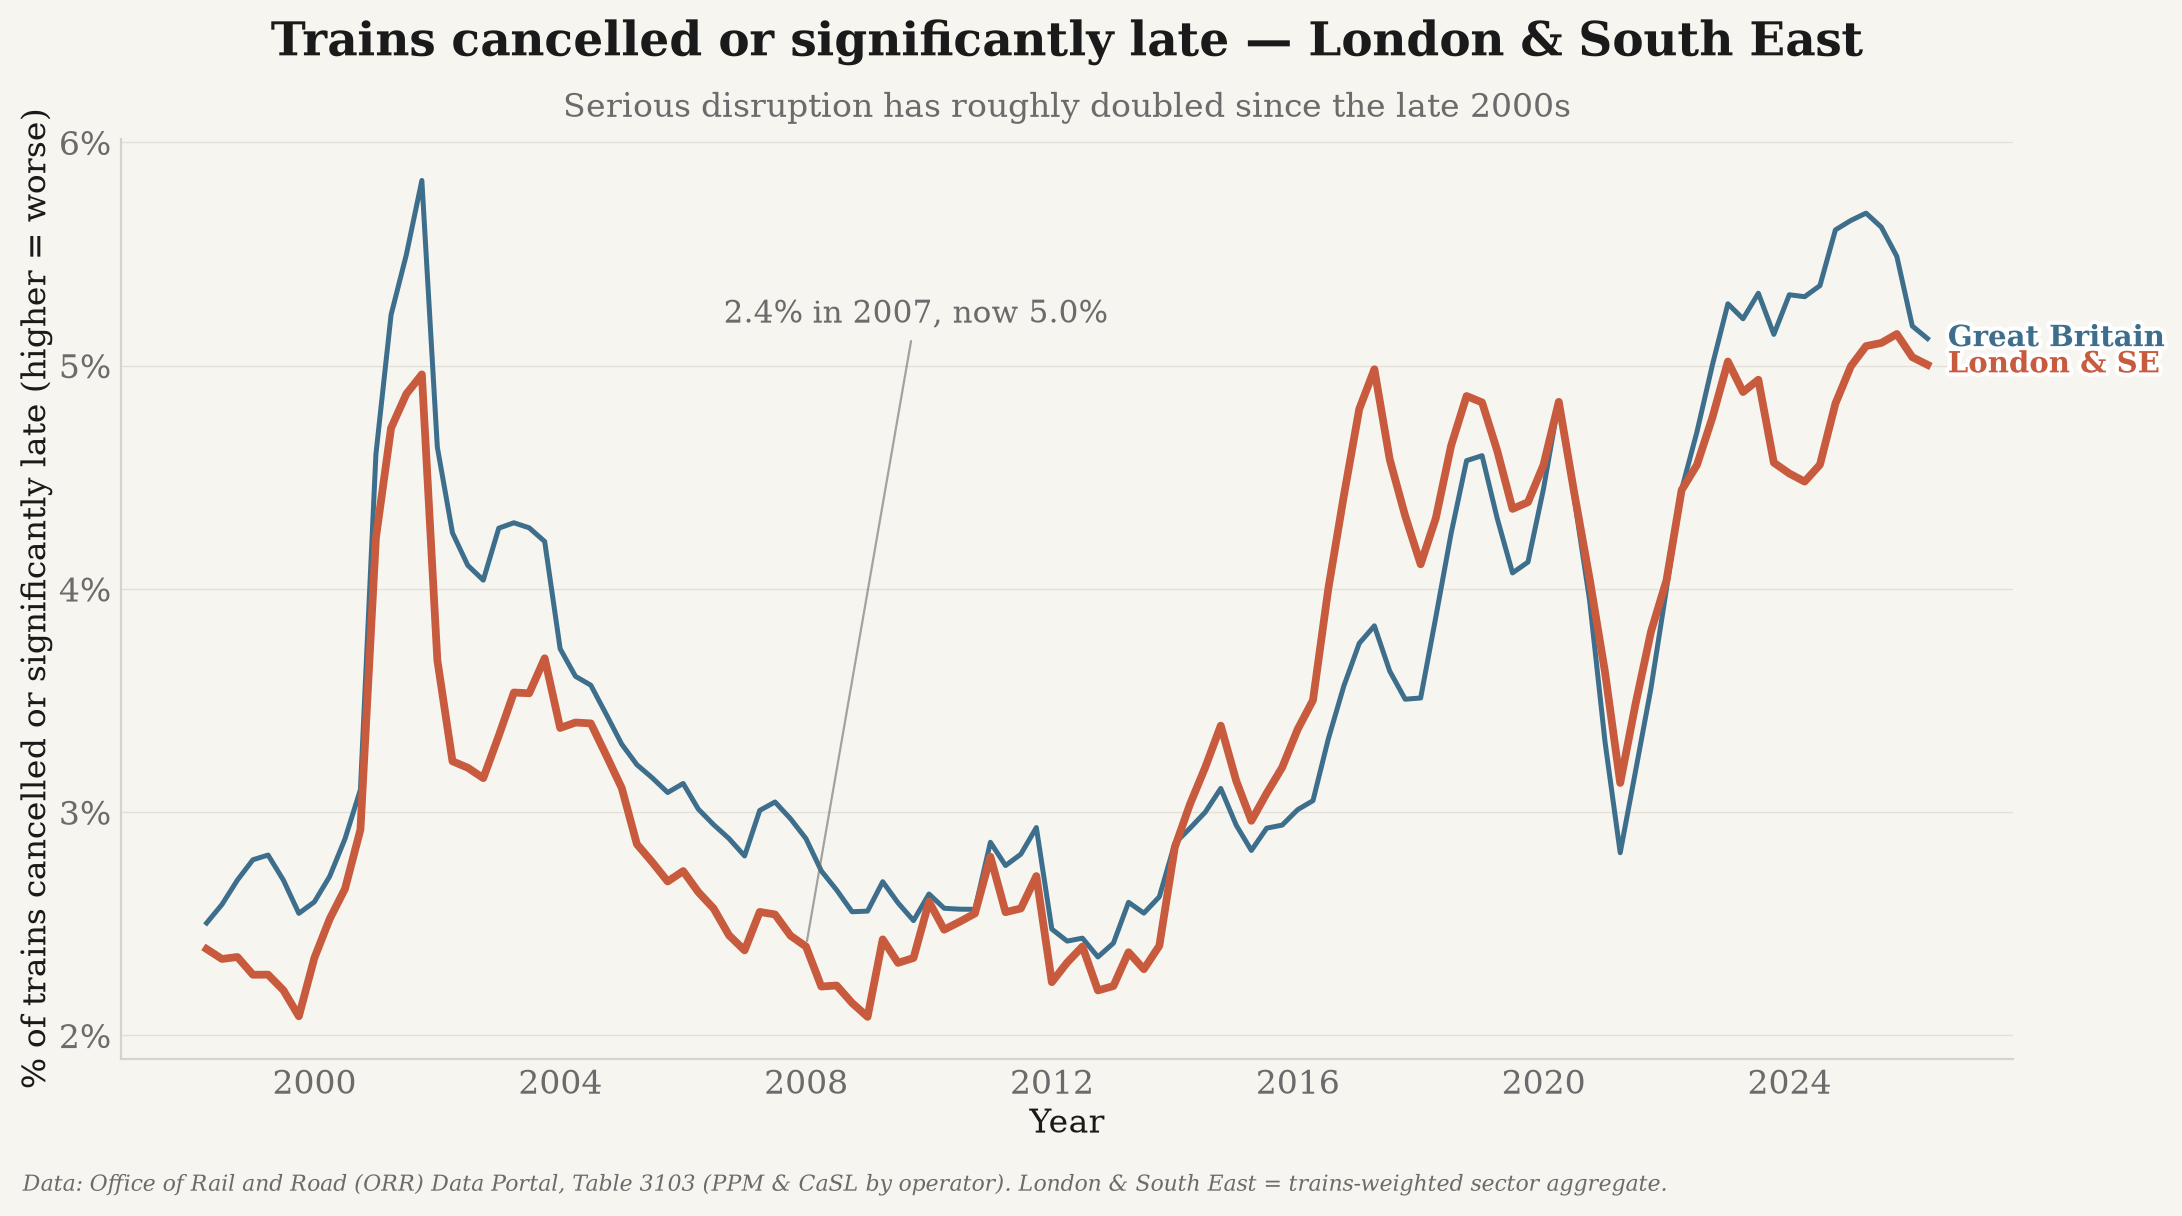
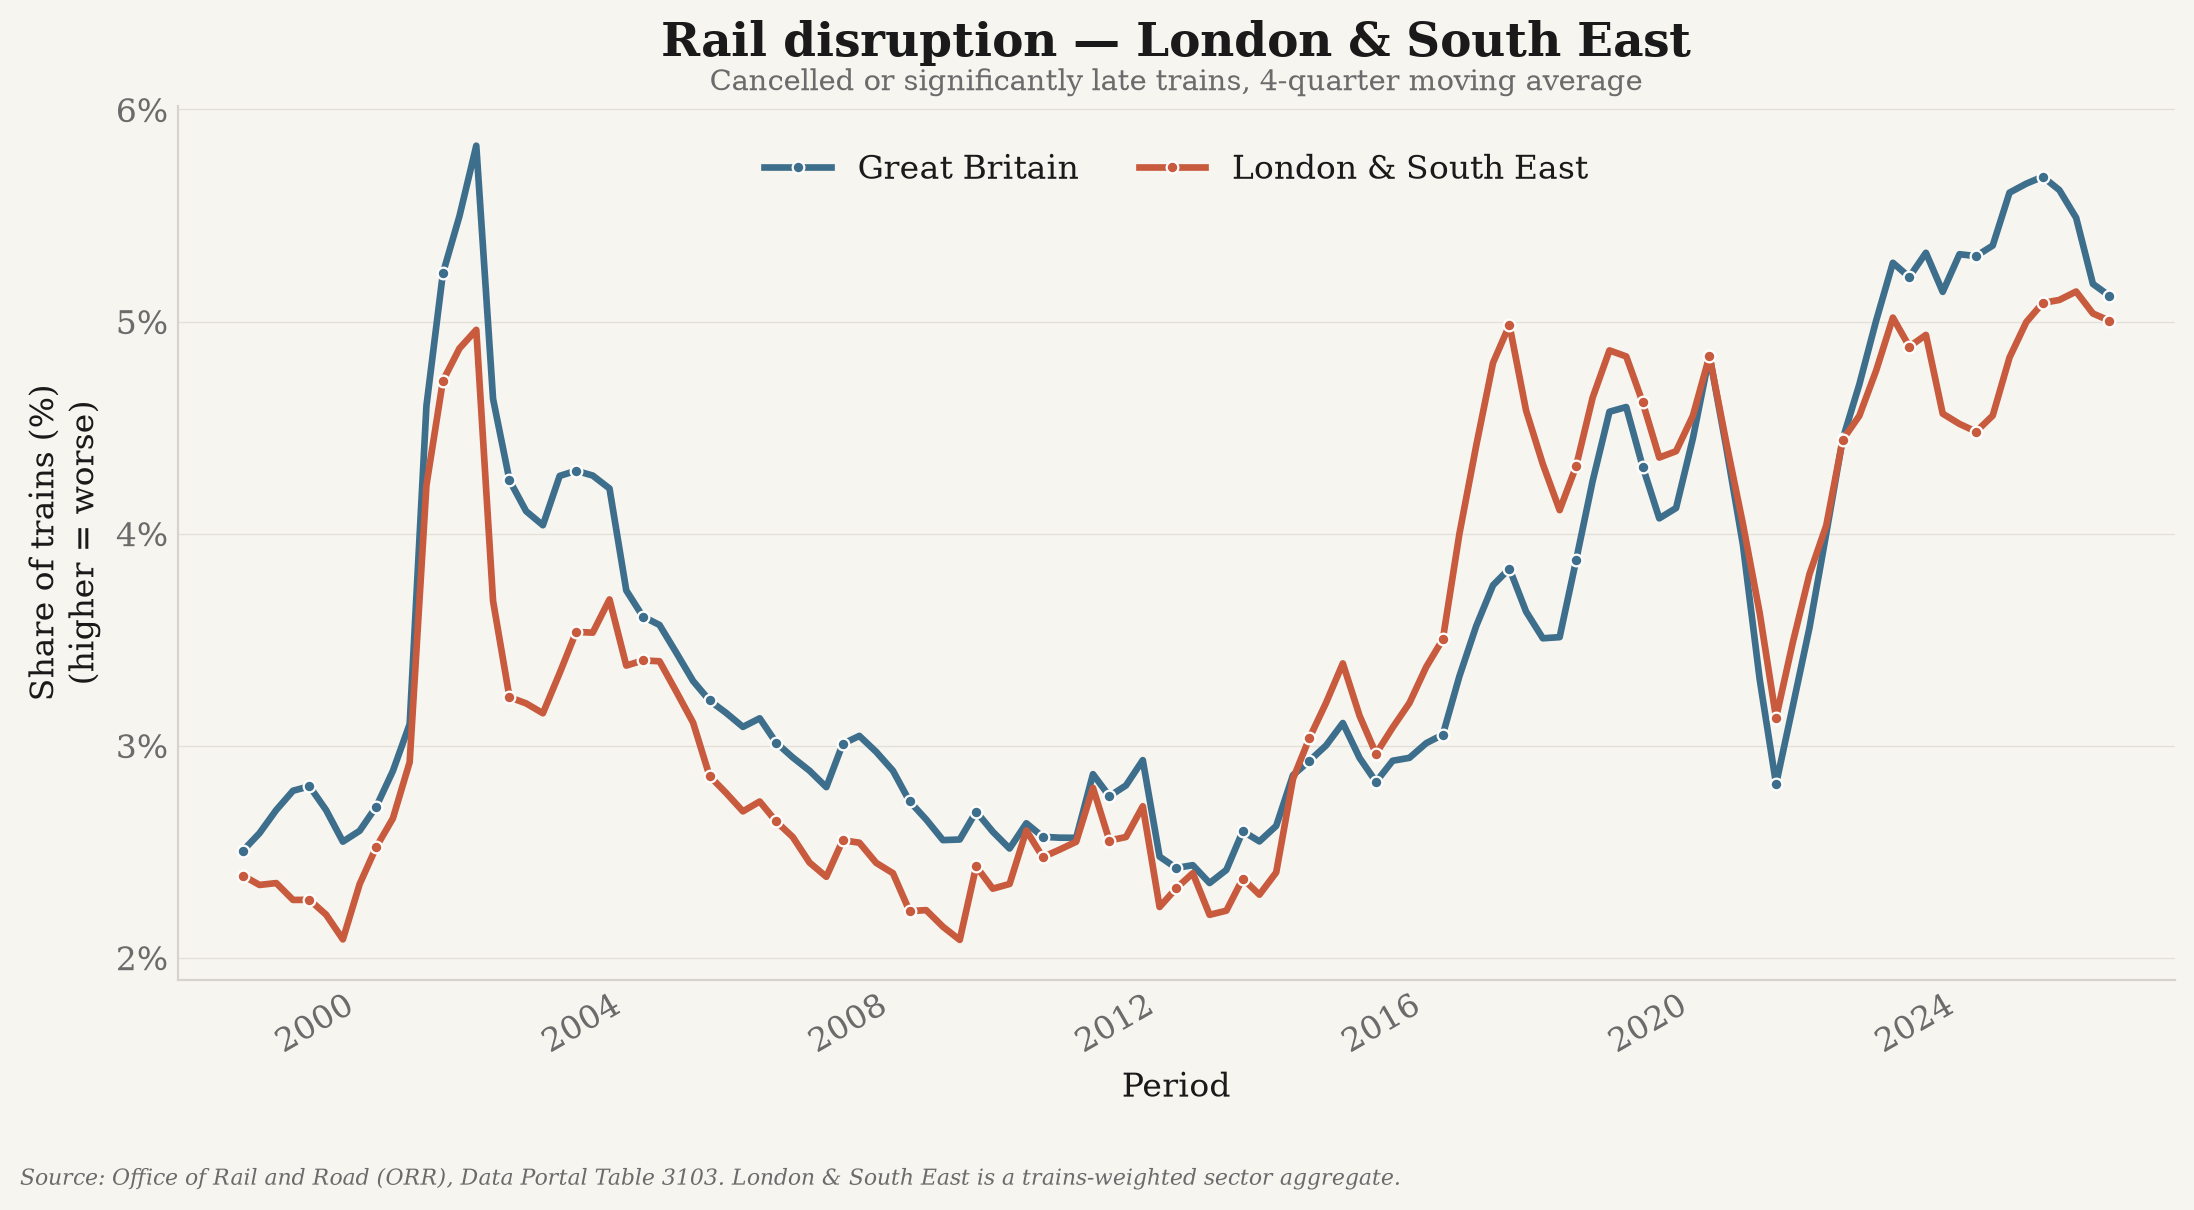
update train plot

diff --git a/rail_data/charts.py b/rail_data/charts.py
@@ -16,16 +16,17 @@ from __future__ import annotations
 
 import pathlib
 
+import matplotlib.dates as mdates
 import matplotlib.pyplot as plt
 import matplotlib.ticker as mtick
 import pandas as pd
 
-from vizstyle import BG, TEXT, MUTED, GRID, ACCENT, BLUE, RC_PARAMS as _THEME, house_style, white_stroke
-
-_STROKE = white_stroke()
+from vizstyle import ACCENT, BLUE, MUTED, TEXT, house_style, source_note
 
 LONDON = "London and South East"
 GB = "Great Britain"
+
+house_style()
 
 
 def _load(source) -> pd.DataFrame:
@@ -43,55 +44,56 @@ def _maa(df: pd.DataFrame, region: str, metric: str) -> pd.DataFrame:
     return sub.dropna(subset=["maa"])
 
 
-def _end_label(ax, xs, ys, text, color):
-    ax.text(xs.iloc[-1], ys.iloc[-1], f"  {text}", fontsize=10.5, fontweight="bold",
-            color=color, va="center", ha="left", path_effects=_STROKE)
-
-
-def _chart(df, metric, title, subtitle, ylabel, filename, out_dir, *, annotate_2007=None):
-    plt.rcParams.update(_THEME)
+def _chart(df, metric, title, subtitle, ylabel, filename, out_dir):
     lon = _maa(df, LONDON, metric)
     gb = _maa(df, GB, metric)
-    if lon.empty:
+    if lon.empty or gb.empty:
         return None
 
     fig, ax = plt.subplots(figsize=(11, 6))
-    ax.plot(gb["date"], gb["maa"], color=BLUE, linewidth=1.8, label="Great Britain")
-    ax.plot(lon["date"], lon["maa"], color=ACCENT, linewidth=2.8, label="London & South East")
-    _end_label(ax, gb["date"], gb["maa"], "Great Britain", BLUE)
-    _end_label(ax, lon["date"], lon["maa"], "London & SE", ACCENT)
+    line_style = {
+        "marker": "o",
+        "markevery": 4,
+        "markersize": 4.2,
+        "markeredgecolor": "white",
+        "markeredgewidth": 0.8,
+        "linewidth": 2.4,
+    }
+    ax.plot(gb["date"], gb["maa"], color=BLUE, label="Great Britain", **line_style)
+    ax.plot(lon["date"], lon["maa"], color=ACCENT, label="London & South East", **line_style)
 
-    if annotate_2007 is not None:
-        row07 = lon[lon["date"].dt.year == 2007]
-        if not row07.empty:
-            y07 = row07["maa"].iloc[-1]
-            ylast = lon["maa"].iloc[-1]
-            ax.annotate(annotate_2007.format(y07=y07, ylast=ylast),
-                        xy=(row07["date"].iloc[-1], y07), xytext=(0.42, 0.80),
-                        textcoords="axes fraction", fontsize=11, color=MUTED,
-                        ha="center",
-                        arrowprops=dict(arrowstyle="-", color=MUTED, lw=0.8, alpha=0.6))
-
-    ax.set_title(title, fontweight="bold", pad=30)
-    ax.text(0.5, 1.015, subtitle, transform=ax.transAxes, ha="center", va="bottom",
-            fontsize=12, color=MUTED)
-    ax.set_xlabel("Year", labelpad=2)
-    ax.set_ylabel(ylabel, labelpad=2)
+    ax.set_title(title, fontweight="bold", pad=18)
+    ax.text(0.5, 1.01, subtitle, transform=ax.transAxes, ha="center", va="bottom",
+            fontsize=10.5, color=MUTED)
+    ax.set_xlabel("Period", labelpad=4)
+    ax.set_ylabel(ylabel, labelpad=4)
     ax.yaxis.set_major_locator(mtick.MaxNLocator(integer=True))
     ax.yaxis.set_major_formatter(mtick.FuncFormatter(lambda v, _p: f"{v:.0f}%"))
+    ax.xaxis.set_major_locator(mdates.YearLocator(4))
+    ax.xaxis.set_major_formatter(mdates.DateFormatter("%Y"))
     ax.grid(axis="y")
     ax.set_axisbelow(True)
-    ax.margins(x=0.05)
-    fig.text(0.01, 0.01,
-             "Data: Office of Rail and Road (ORR) Data Portal, Table 3103 (PPM & CaSL by "
-             "operator). London & South East = trains-weighted sector aggregate.",
-             ha="left", fontsize=8, color=MUTED, style="italic")
-    plt.tight_layout(pad=0.5)
-    plt.subplots_adjust(bottom=0.12)
+    ax.margins(x=0.035)
+    ax.legend(
+        loc="upper center",
+        bbox_to_anchor=(0.5, 0.98),
+        ncol=2,
+        frameon=False,
+        labelcolor=TEXT,
+        columnspacing=1.8,
+        handlelength=2.0,
+    )
+    fig.autofmt_xdate(rotation=30, ha="right")
+    source_note(
+        fig,
+        "Source: Office of Rail and Road (ORR), Data Portal Table 3103. "
+        "London & South East is a trains-weighted sector aggregate.",
+    )
+    fig.tight_layout(rect=[0, 0.055, 1, 1], pad=0.7)
     out_dir = pathlib.Path(out_dir)
     out_dir.mkdir(parents=True, exist_ok=True)
     out_path = out_dir / filename
-    plt.savefig(out_path, dpi=200, bbox_inches="tight")
+    fig.savefig(out_path, dpi=200, bbox_inches="tight")
     plt.close(fig)
     return out_path
 
@@ -101,19 +103,18 @@ def make_charts(source, out_dir="outputs/rail") -> list[pathlib.Path]:
     written = []
     p = _chart(
         df, "casl_pct",
-        "Trains cancelled or significantly late \u2014 London & South East",
-        "Serious disruption has roughly doubled since the late 2000s",
-        "% of trains cancelled or significantly late (higher = worse)",
+        "Rail disruption \u2014 London & South East",
+        "Cancelled or significantly late trains, 4-quarter moving average",
+        "Share of trains (%)\n(higher = worse)",
         "rail_london_casl.png", out_dir,
-        annotate_2007="{y07:.1f}% in 2007, now {ylast:.1f}%",
     )
     if p:
         written.append(p)
     p = _chart(
         df, "ppm_pct",
-        "Trains 'on time' (PPM) \u2014 London & South East",
-        "The lenient headline punctuality measure has stayed broadly flat",
-        "% of trains on time (PPM)",
+        "Rail punctuality \u2014 London & South East",
+        "Public Performance Measure (PPM), 4-quarter moving average",
+        "Trains meeting PPM (%)",
         "rail_london_ppm.png", out_dir,
     )
     if p:

diff --git a/london_data/ons.py b/london_data/ons.py
@@ -44,6 +44,7 @@ PINNED_XLSX = (
 )
 SOURCE = ("Office for National Statistics (ONS), Regional economic activity by gross "
           "domestic product, UK: Regional GDP, all ITL regions (current market prices)")
+RELEASE_SEARCH_URL = "https://api.beta.ons.gov.uk/v1/search"
 
 LONDON_CODE = "TLI"   # London ITL1 (ONS geography code)
 UK_CODE = "UK"
@@ -61,6 +62,64 @@ def _ensure_ons_host(url: str) -> None:
         raise ValueError(f"refusing to fetch untrusted host: {url!r}")
 
 
+def _edition_links(html: str) -> list[tuple[int, str]]:
+    """Return ``[(end_year, href), ...]`` for dated regional-GDP workbook links."""
+    links: list[tuple[int, str]] = []
+    hrefs = re.findall(r'href="(/file\?uri=[^"]+\.xlsx)"', html, flags=re.I)
+    for href in hrefs:
+        m = re.search(r"/1998to(\d{4})/", href)
+        if m is not None:
+            links.append((int(m.group(1)), href))
+    return links
+
+
+def latest_published_year(page_url: str = DATASET_PAGE, timeout: int = 60) -> int:
+    """Return the latest end-year currently published on the ONS dataset page."""
+    _ensure_ons_host(page_url)
+    resp = _get(page_url, timeout=timeout)
+    links = _edition_links(resp.text)
+    if not links:
+        raise RuntimeError("ONS regional-GDP page contains no dated workbook editions")
+    return max(year for year, _href in links)
+
+
+def next_release(target_year: int, timeout: int = 60) -> dict | None:
+    """Return the ONS release-calendar entry for ``1998 to target_year``, if scheduled.
+
+    This queries the official ONS search API rather than hard-coding a date. Returned keys
+    are ``title``, ``release_date`` and ``uri``.
+    """
+    params = {
+        "q": f"Regional economic activity by gross domestic product UK 1998 to {target_year}",
+        "content_type": "release",
+        "limit": 20,
+    }
+    resp = requests.get(RELEASE_SEARCH_URL, params=params, timeout=timeout,
+                        headers={"User-Agent": _USER_AGENT})
+    resp.raise_for_status()
+    needle = f"1998 to {target_year}"
+    for item in resp.json().get("items", []):
+        title = str(item.get("title", ""))
+        if needle in title:
+            return {
+                "title": title,
+                "release_date": item.get("release_date"),
+                "uri": item.get("uri"),
+            }
+    return None
+
+
+def availability_status(target_year: int = 2024, timeout: int = 60) -> dict:
+    """Return official publication status for a requested regional-GDP end-year."""
+    latest = latest_published_year(timeout=timeout)
+    return {
+        "latest_published_year": latest,
+        "target_year": target_year,
+        "available": latest >= target_year,
+        "next_release": None if latest >= target_year else next_release(target_year, timeout),
+    }
+
+
 def resolve_xlsx_url(page_url: str = DATASET_PAGE, timeout: int = 60) -> str:
     """Return the newest ``.xlsx`` edition linked on the ONS dataset page.
 
@@ -71,16 +130,9 @@ def resolve_xlsx_url(page_url: str = DATASET_PAGE, timeout: int = 60) -> str:
     _ensure_ons_host(page_url)
     try:
         resp = _get(page_url, timeout=timeout)
-        hrefs = re.findall(r'href="(/file\?uri=[^"]+\.xlsx)"', resp.text, flags=re.I)
-        best, best_year = None, 0
-        for href in hrefs:
-            m = re.search(r"/1998to(\d{4})/", href)
-            if m is None:
-                continue  # not a dated regional-GDP edition; skip
-            year = int(m.group(1))
-            if year > best_year:
-                best, best_year = href, year
-        if best:
+        links = _edition_links(resp.text)
+        if links:
+            _year, best = max(links)
             return f"https://{ONS_HOST}{best}"
     except Exception as exc:  # pragma: no cover - network/parse failure path
         print(f"[london_data] could not resolve latest xlsx ({exc}); using pinned URL.")

diff --git a/london_data/__main__.py b/london_data/__main__.py
@@ -27,19 +27,59 @@ def _write_csv(rows: list[dict], path: pathlib.Path) -> None:
         writer.writerows(rows)
 
 
+def _require_year(years: list[int], required: int) -> None:
+    latest = max(years) if years else None
+    if latest is None or latest < required:
+        release = ons.next_release(required)
+        detail = (f"; scheduled release: {release['release_date']}"
+                  if release and release.get("release_date") else "")
+        raise RuntimeError(
+            f"official London GDP-share data ends at {latest}; required {required}{detail}"
+        )
+
+
 def main(argv: list[str] | None = None) -> int:
     p = argparse.ArgumentParser(description="London's concentration of UK GDP (ONS).")
     p.add_argument("--csv", default=str(DEFAULT_CSV), help="Tidy CSV output path.")
     p.add_argument("--charts-dir", default=str(DEFAULT_CHARTS), help="Chart output dir.")
     p.add_argument("--from-csv", metavar="PATH",
                    help="Skip fetching; build charts from an existing tidy CSV.")
+    p.add_argument("--status", action="store_true",
+                   help="Report the latest official ONS edition and next scheduled release.")
+    p.add_argument("--require-year", type=int, metavar="YEAR",
+                   help="Fail unless the fetched official data reaches YEAR.")
     args = p.parse_args(argv)
+
+    if args.status:
+        target = args.require_year or 2024
+        status = ons.availability_status(target)
+        latest = status["latest_published_year"]
+        print(f"[london_data] latest official ONS regional-GDP year: {latest}")
+        if status["available"]:
+            print(f"[london_data] requested year {target} is available")
+        elif status["next_release"]:
+            release = status["next_release"]
+            print(f"[london_data] {target} is not published; scheduled release: "
+                  f"{release['release_date']} ({release['title']})")
+        else:
+            print(f"[london_data] {target} is not published; no release date found")
+        if args.from_csv is None and args.require_year is None:
+            return 0
 
     if args.from_csv:
         source = args.from_csv
         print(f"[london_data] using existing CSV: {source}")
+        if args.require_year is not None:
+            with open(source, newline="") as f:
+                years = [int(r["year"]) for r in csv.DictReader(f)
+                         if r["metric"] == "share_of_uk_gdp_pct"]
+            _require_year(years, args.require_year)
     else:
         rows = ons.build_rows()
+        if args.require_year is not None:
+            years = [int(r["year"]) for r in rows
+                     if r["metric"] == "share_of_uk_gdp_pct"]
+            _require_year(years, args.require_year)
         _write_csv(rows, pathlib.Path(args.csv))
         print(f"[london_data] wrote {len(rows)} rows -> {args.csv}")
         source = args.csv

diff --git a/tests/test_london_data.py b/tests/test_london_data.py
@@ -124,3 +124,37 @@ def test_resolve_xlsx_url_prefers_pinned_when_no_dated_edition(monkeypatch):
     # No /1998toYYYY/ edition link -> must fall back to the pinned URL, not the stray xlsx.
     assert ons.resolve_xlsx_url() == ons.PINNED_XLSX
 
+
+def test_edition_links_and_latest_year(monkeypatch):
+    html = """
+    <a href="/file?uri=/x/1998to2023/a.xlsx">2023</a>
+    <a href="/file?uri=/x/current/a.xlsx">current</a>
+    <a href="/file?uri=/x/1998to2024/b.xlsx">2024</a>
+    """
+    assert ons._edition_links(html) == [
+        (2023, "/file?uri=/x/1998to2023/a.xlsx"),
+        (2024, "/file?uri=/x/1998to2024/b.xlsx"),
+    ]
+
+    class _Resp:
+        text = html
+
+    monkeypatch.setattr(ons, "_get", lambda url, timeout=60: _Resp())
+    assert ons.latest_published_year() == 2024
+
+
+def test_availability_status_uses_release_calendar(monkeypatch):
+    monkeypatch.setattr(ons, "latest_published_year", lambda timeout=60: 2023)
+    monkeypatch.setattr(
+        ons,
+        "next_release",
+        lambda year, timeout=60: {
+            "title": "Regional economic activity by gross domestic product, UK: 1998 to 2024",
+            "release_date": "2026-09-23T08:30:00.000Z",
+            "uri": "/releases/example",
+        },
+    )
+    status = ons.availability_status(2024)
+    assert status["available"] is False
+    assert status["latest_published_year"] == 2023
+    assert status["next_release"]["release_date"].startswith("2026-09-23")

diff --git a/london_data/README.md b/london_data/README.md
@@ -55,7 +55,17 @@ defensible range; no later values are estimated, nowcast, or fabricated.
 
 # rebuild charts from an existing CSV (no fetch):
 ./.venv/bin/python -m london_data --from-csv data/london_gdp.csv
+
+# report the latest official edition and the next scheduled release
+./.venv/bin/python -m london_data --status
+
+# after publication, refresh and refuse to accept an older edition silently
+./.venv/bin/python -m london_data --require-year 2024
 ```
+
+The resolver selects the highest `1998toYYYY` edition linked by ONS, so no code change is
+needed when the September 2026 release appears. `--require-year` turns stale data into an
+explicit failure rather than silently rebuilding a chart that still ends in 2023.
 
 ## Outputs
 